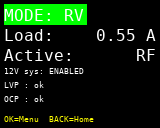
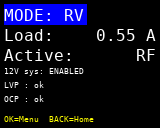
ui: MODE focus highlight blue; regenerate docs screens

Changed region(s): [[0.0, 0.0312, 0.5625, 0.2188]]

diff --git a/src/display/DisplayUI.cpp b/src/display/DisplayUI.cpp
@@ -289,7 +289,7 @@ void DisplayUI::showStatus(const Telemetry& t){
     // Line 1: MODE (top)
     {
       bool selected = (_homeFocus == 1);
-      uint16_t bg = selected ? ST77XX_GREEN : ST77XX_BLACK;
+      uint16_t bg = selected ? ST77XX_BLUE : ST77XX_BLACK;
       uint16_t fg = ST77XX_WHITE;
       _tft->fillRect(0, yMode-2, W, hMode, bg);
       _tft->setTextSize(2);
@@ -367,7 +367,7 @@ void DisplayUI::showStatus(const Telemetry& t){
   // MODE line diff (mode or focus changed)
   static uint8_t s_prevMode = 255; static int s_prevFocus = -1;
   if (s_prevMode != _mode || s_prevFocus != _homeFocus) {
-    uint16_t bg = (_homeFocus==1)? ST77XX_GREEN : ST77XX_BLACK;
+    uint16_t bg = (_homeFocus==1)? ST77XX_BLUE : ST77XX_BLACK;
     _tft->fillRect(0, yMode-2, W, hMode, bg);
     _tft->setTextSize(2);
     _tft->setTextColor(ST77XX_WHITE, bg);

diff --git a/scripts/generate_screens.py b/scripts/generate_screens.py
@@ -94,7 +94,7 @@ def screen_home(mode: str = 'HD', load_a: float = 0.00, active: str = 'RF',
     yHint, hHint = 114, 12
 
     # MODE line (size=2) with optional focus highlight
-    bg = 'GREEN' if focus_mode else 'BLACK'
+    bg = 'BLUE' if focus_mode else 'BLACK'
     draw_text(img, d, 4, yMode, f"MODE: {mode}", color='WHITE', size=2, bg=bg)
 
     # Load
